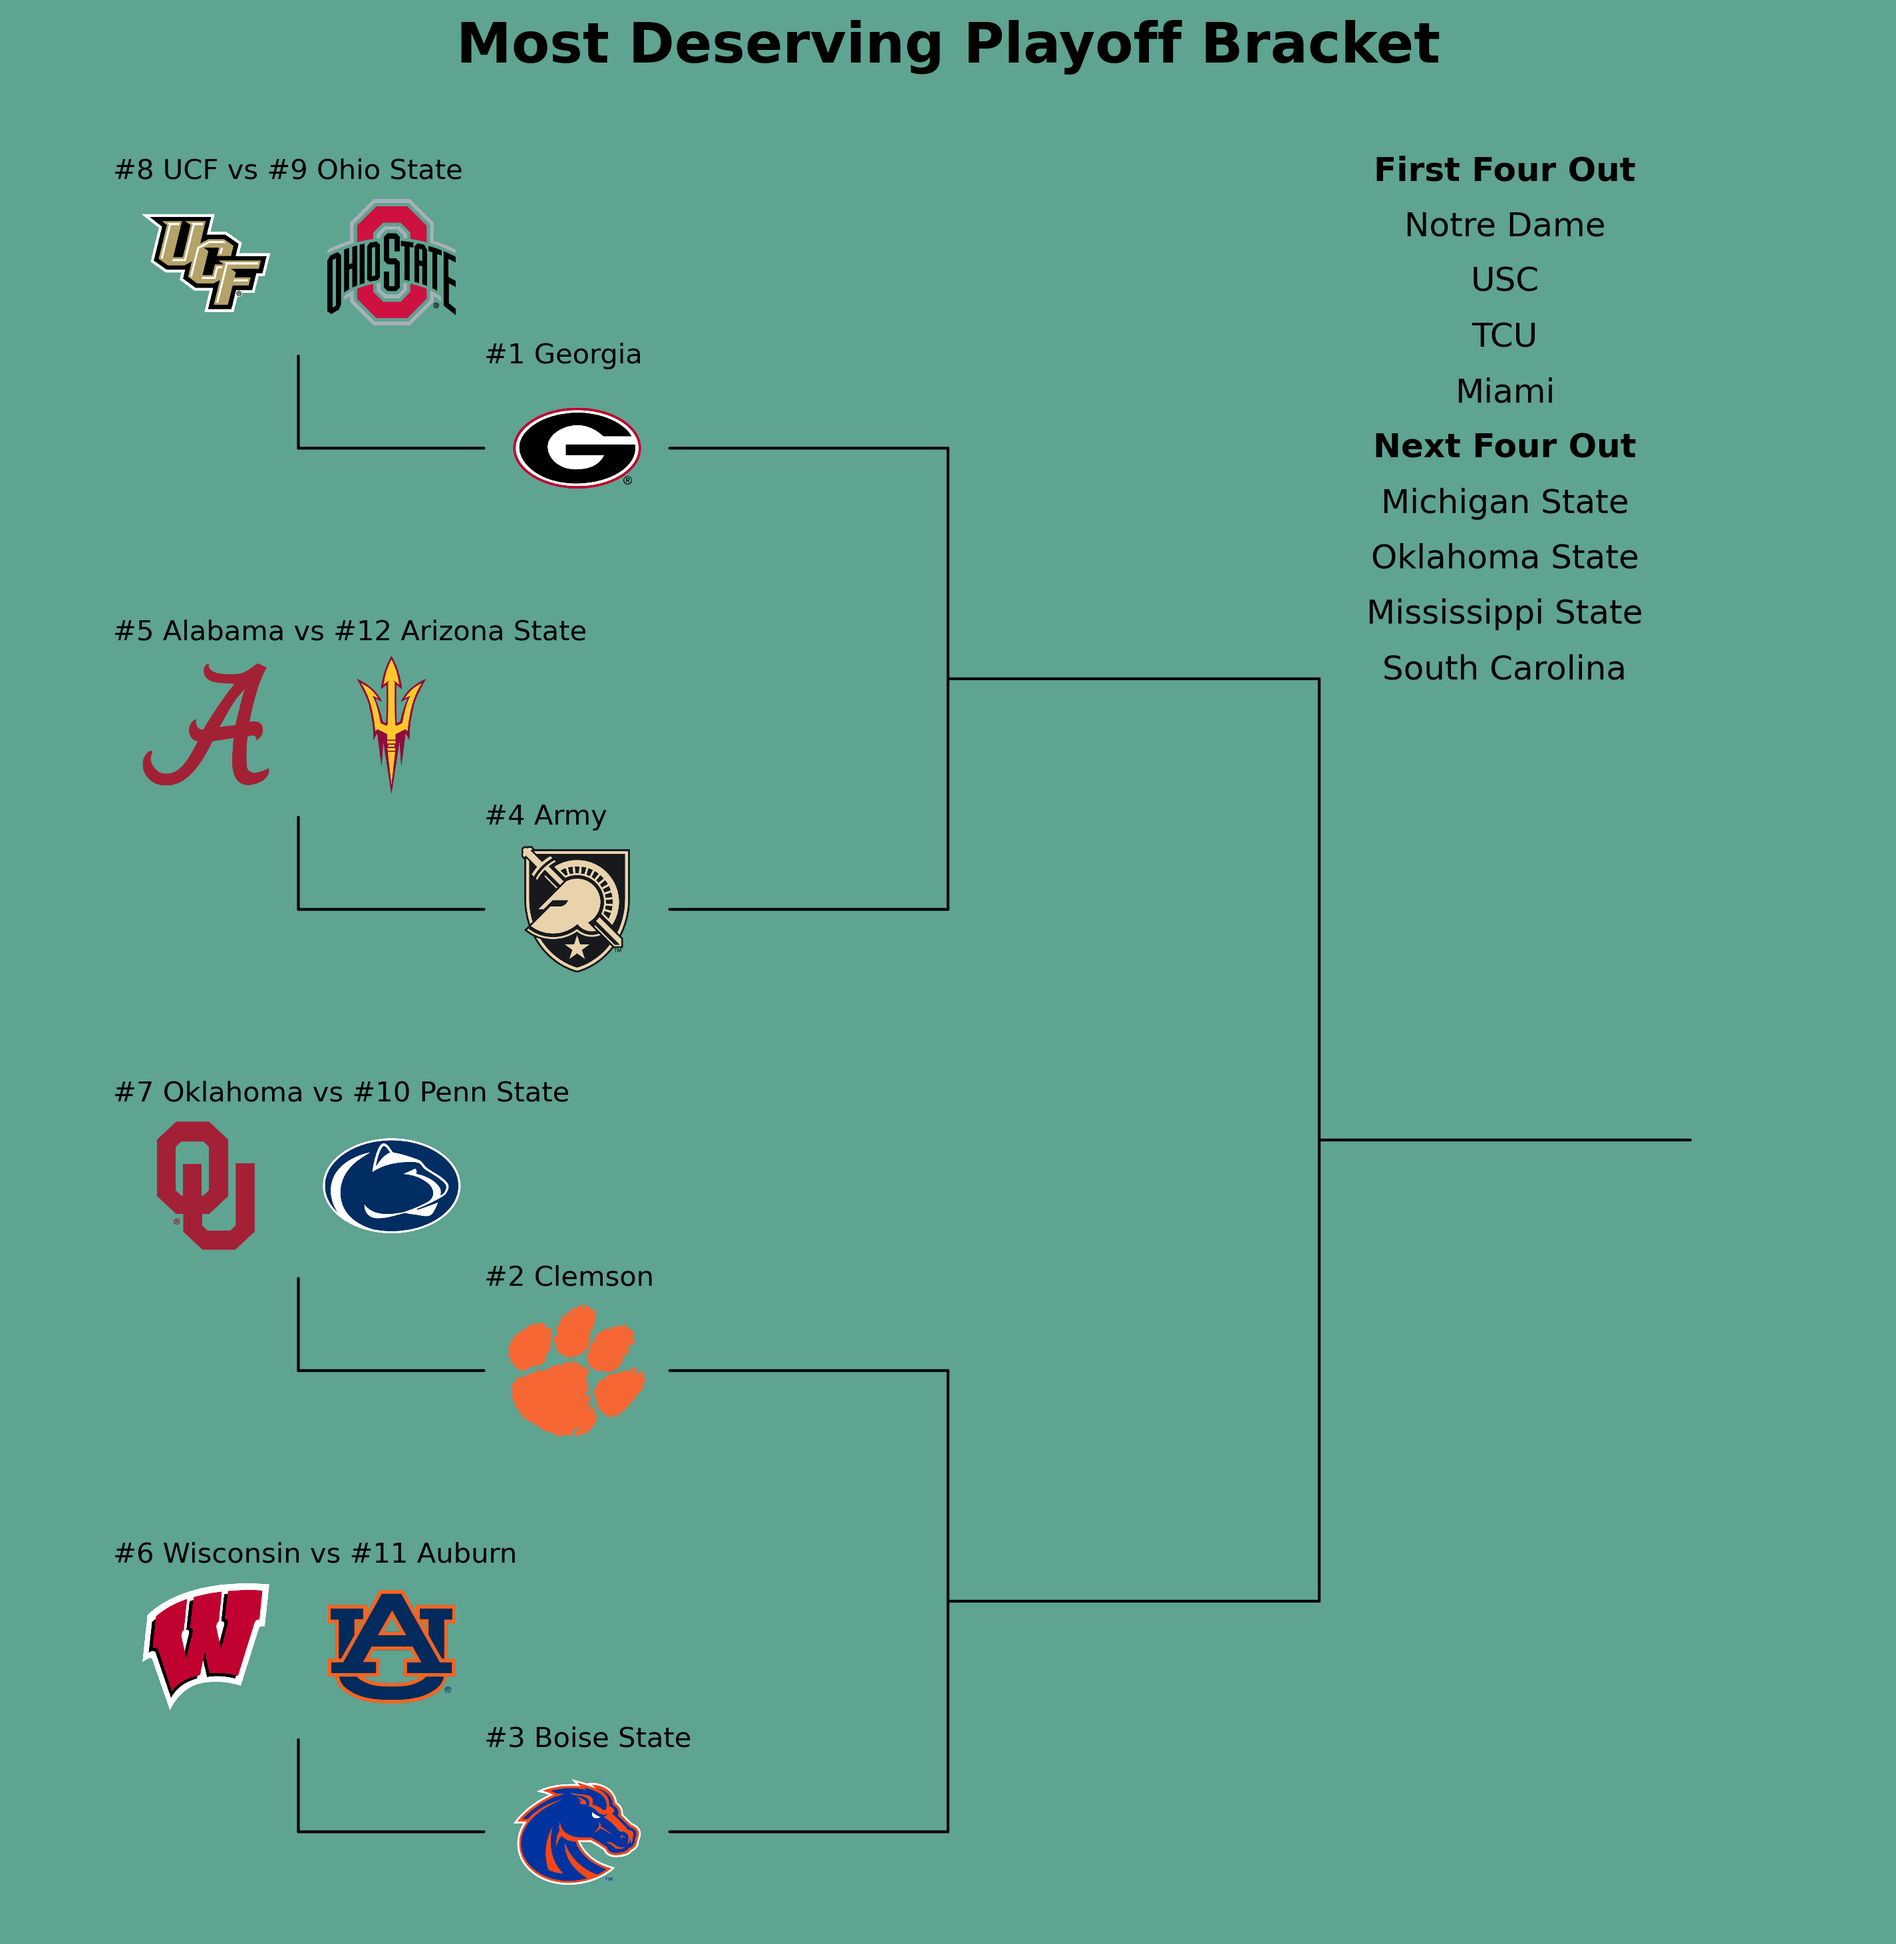
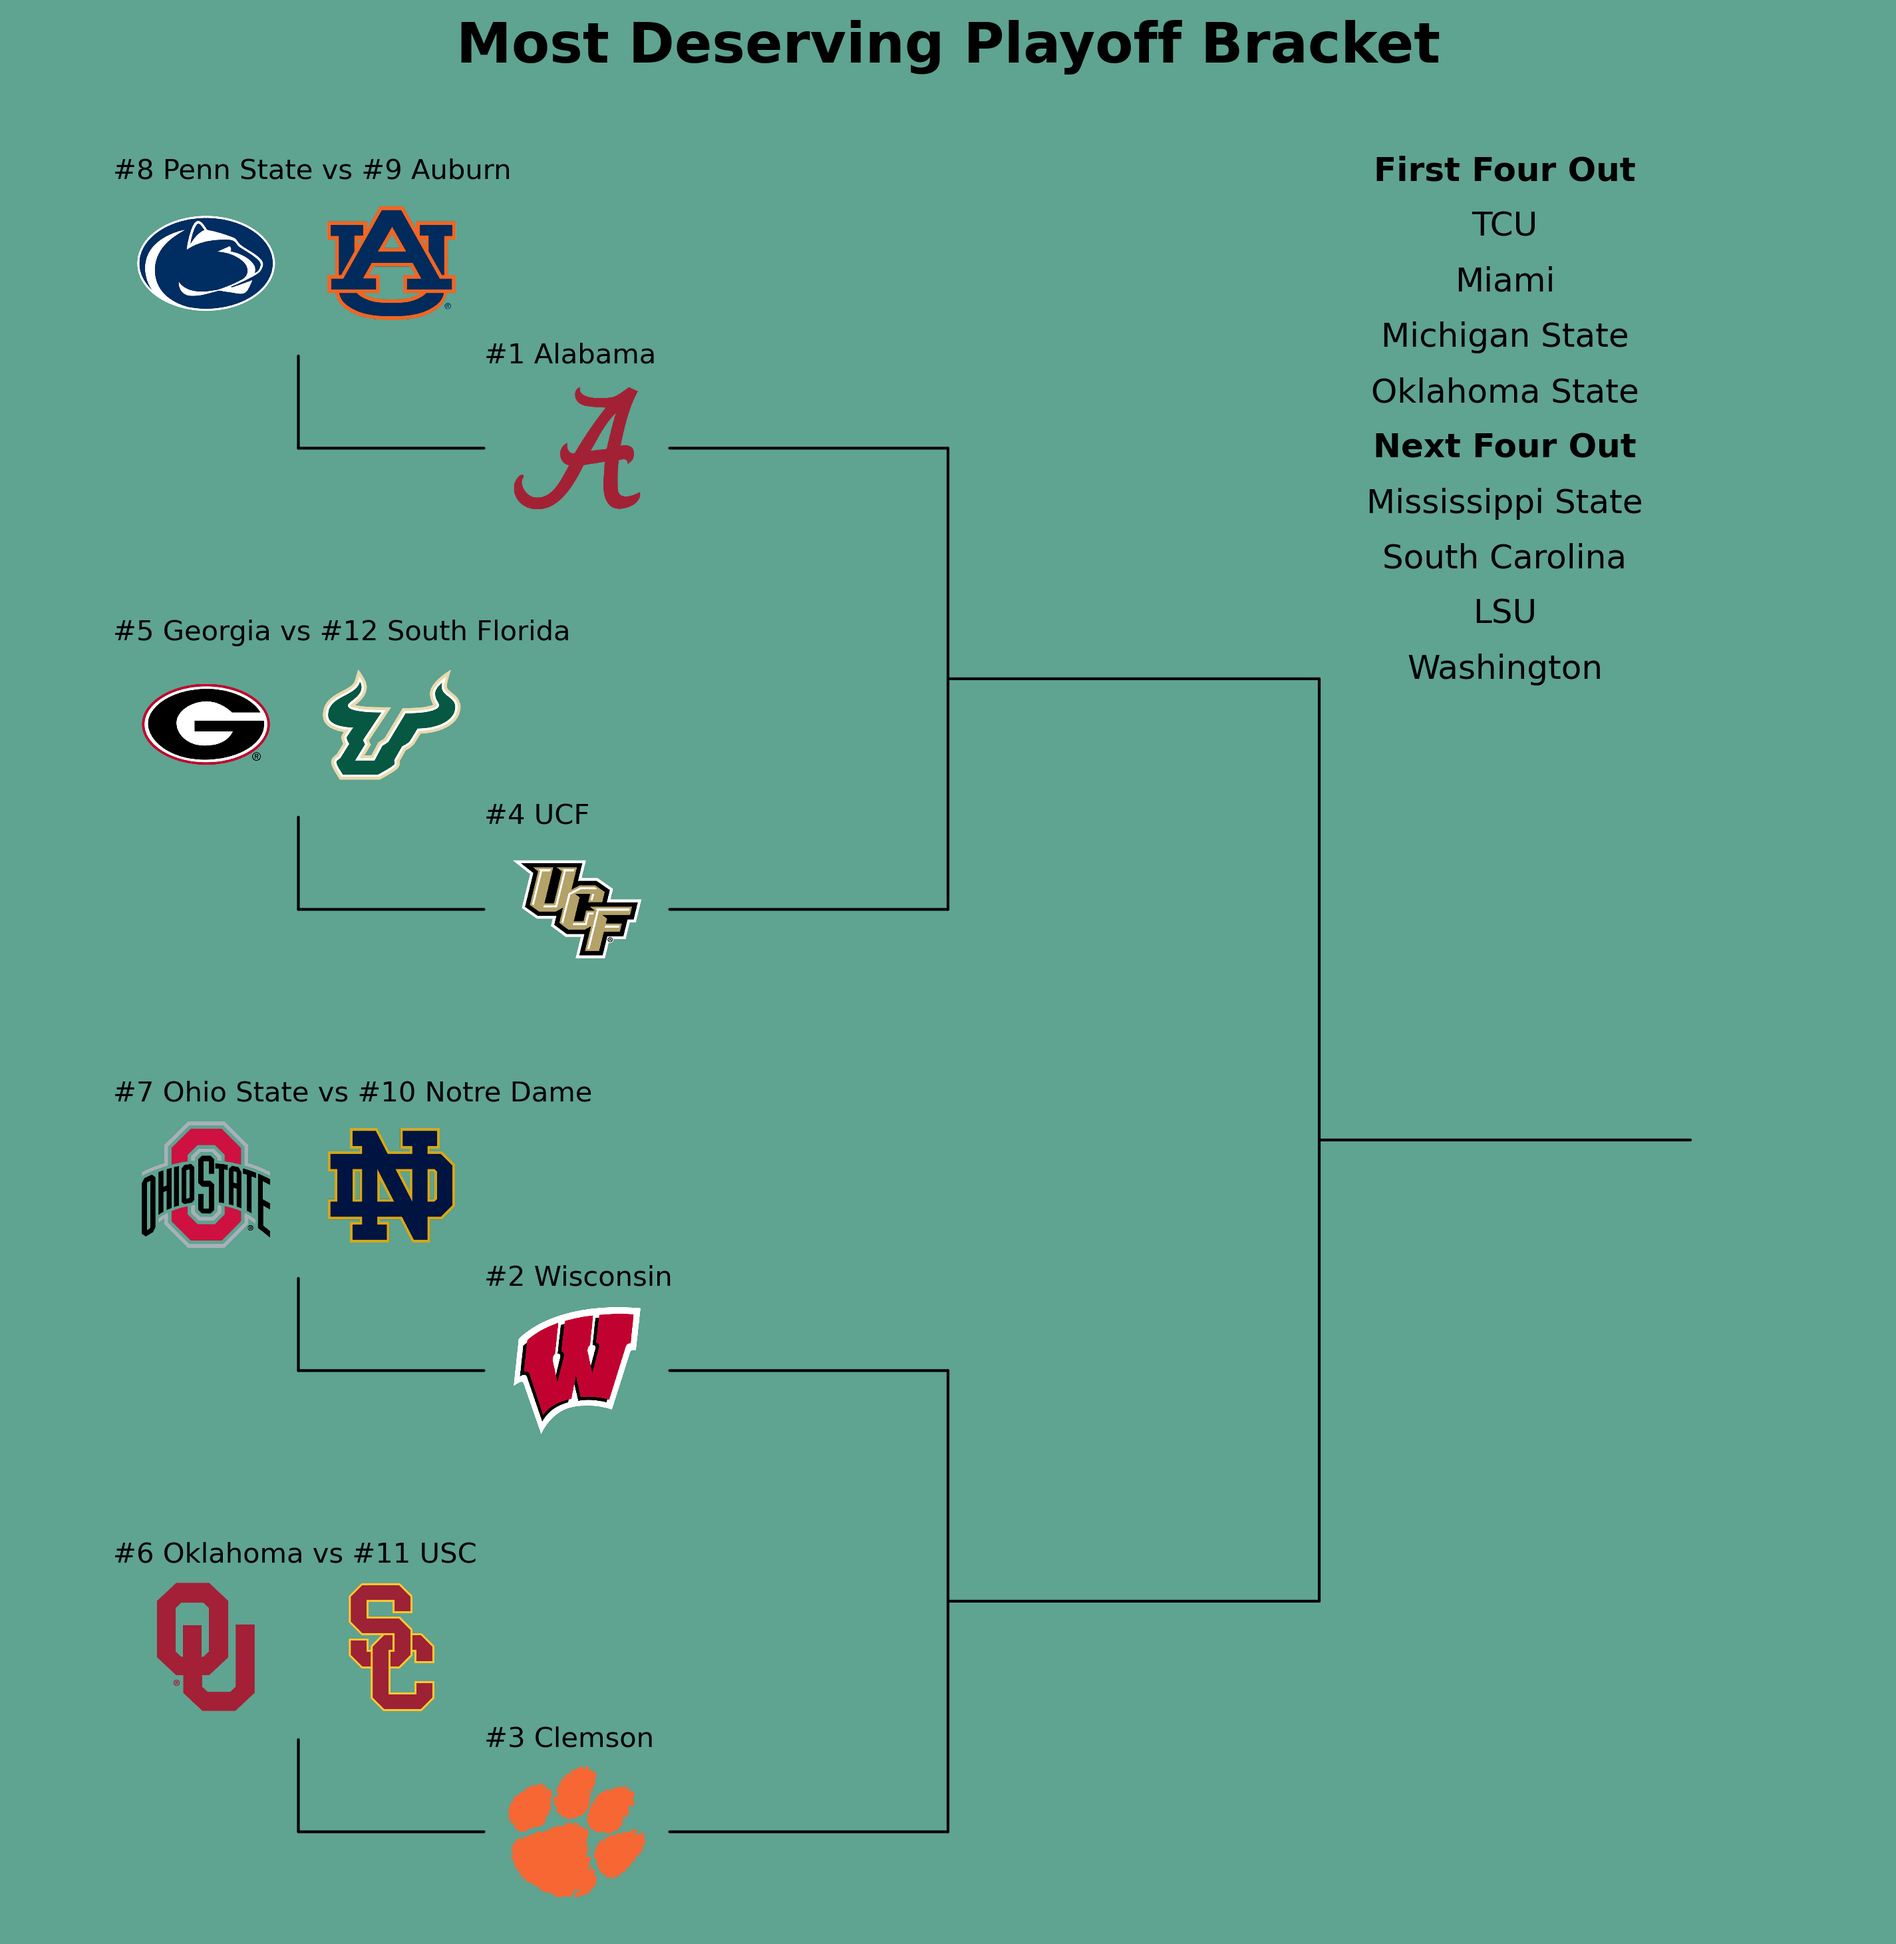
fixing most deserving playoff

diff --git a/visual_content.py b/visual_content.py
@@ -2941,11 +2941,11 @@ try:
     # most_deserving_playoff = most_deserving_playoff[~(most_deserving_playoff['team'] == 'BYU')][0:25]
     # most_deserving_playoff = most_deserving_playoff[~(most_deserving_playoff['team'] == 'Army')][0:25]
     conference_list = ['SEC', 'Big Ten', 'Big 12', 'ACC', 'Conference USA', 'Mid-American', 'Sun Belt', 'American Athletic', 'Mountain West']
-    # top_4_seeds = most_deserving_playoff[most_deserving_playoff['conference'].isin(conference_list)].groupby('conference').first().sort_values('wins_above_average', ascending=False).reset_index()[0:4]
-    # autobid_5 = most_deserving_playoff[most_deserving_playoff['conference'].isin(conference_list)].groupby('conference').first().sort_values('wins_above_average', ascending=False).reset_index()[4:5]
-    conference_champs = ['Oregon', 'Georgia', 'Boise State', 'Arizona State', 'Clemson', 'Army']
-    top_4_seeds = most_deserving_playoff[most_deserving_playoff['team'].isin(conference_champs)].sort_values('wins_above_average', ascending=False).reset_index()[0:4]
-    autobid_5 = most_deserving_playoff[most_deserving_playoff['team'].isin(conference_champs)].sort_values('wins_above_average', ascending=False).reset_index()[4:5]
+    top_4_seeds = most_deserving_playoff[most_deserving_playoff['conference'].isin(conference_list)].groupby('conference').first().sort_values('wins_above_average', ascending=False).reset_index()[0:4]
+    autobid_5 = most_deserving_playoff[most_deserving_playoff['conference'].isin(conference_list)].groupby('conference').first().sort_values('wins_above_average', ascending=False).reset_index()[4:5]
+    # conference_champs = ['Oregon', 'Georgia', 'Boise State', 'Arizona State', 'Clemson', 'Army']
+    # top_4_seeds = most_deserving_playoff[most_deserving_playoff['team'].isin(conference_champs)].sort_values('wins_above_average', ascending=False).reset_index()[0:4]
+    # autobid_5 = most_deserving_playoff[most_deserving_playoff['team'].isin(conference_champs)].sort_values('wins_above_average', ascending=False).reset_index()[4:5]
     excluded_teams = list(top_4_seeds['team']) + list(autobid_5['team'])
     at_large_bids = most_deserving_playoff[~most_deserving_playoff['team'].isin(excluded_teams)].head(7).reset_index(drop=True)
     at_large_bids = pd.concat([at_large_bids, autobid_5]).reset_index(drop=True)
